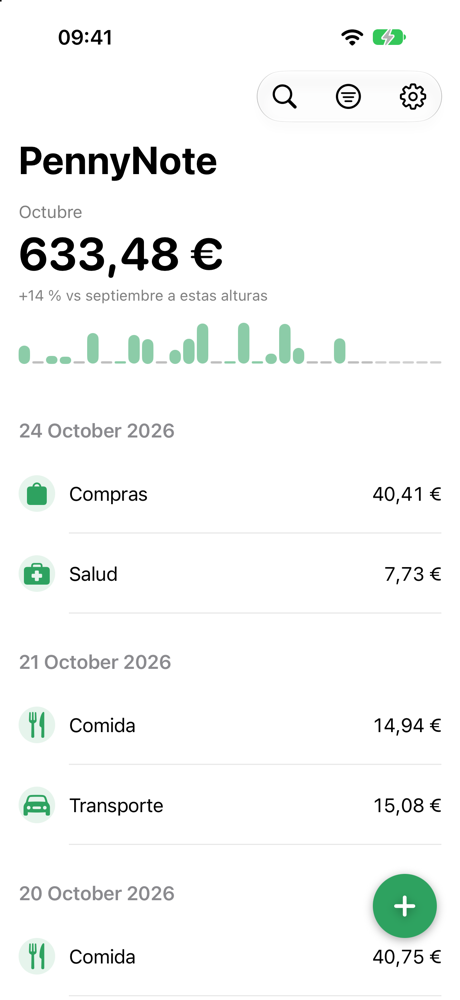
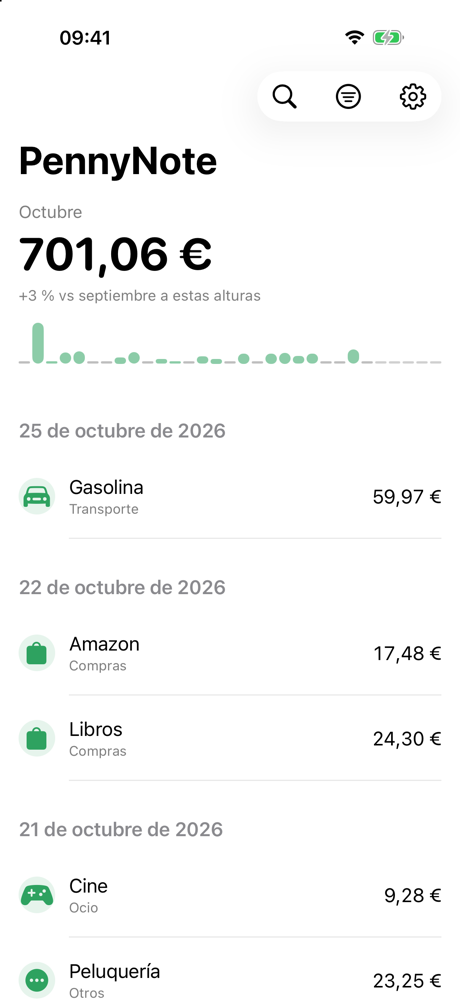
docs(readme): capturas nuevas desde el modo demo
Ocho capturas con los mismos datos de ejemplo: pantalla principal, añadir
gasto, estadísticas (dos), filtros, búsqueda, widget e inicio de sesión. Añade
el modo demo a la lista de funciones.

diff --git a/README.md b/README.md
@@ -3,9 +3,16 @@
 A fast expense tracker for iPhone. Sign in with email and password and your expenses are kept in your account, synced across devices and available offline.
 
 <p align="center">
-  <img src="docs/screenshots/main.png" width="250" alt="Main screen with the month's total, the comparison with the previous month and a daily spending chart">
-  <img src="docs/screenshots/statistics.png" width="250" alt="Statistics screen with daily spending and spending per category">
-  <img src="docs/screenshots/widget.jpg" width="250" alt="Medium Home Screen widget with the month's chart and top categories">
+  <img src="docs/screenshots/main.png" width="200" alt="Main screen with the month's total, the comparison with the previous month and a daily spending chart">
+  <img src="docs/screenshots/add.png" width="200" alt="Add expense sheet with title, amount, category, payment method and date">
+  <img src="docs/screenshots/statistics.png" width="200" alt="Statistics screen with the month's total, daily spending chart and spending per category">
+  <img src="docs/screenshots/statistics-more.png" width="200" alt="Statistics screen with spending per payment method and the last six months">
+</p>
+<p align="center">
+  <img src="docs/screenshots/filters.png" width="200" alt="Filter menu with categories and payment methods">
+  <img src="docs/screenshots/search.png" width="200" alt="Search results for expenses matching a title">
+  <img src="docs/screenshots/widget.jpg" width="200" alt="Medium Home Screen widget with the month's chart and top categories">
+  <img src="docs/screenshots/signin.png" width="200" alt="Sign-in screen with email and password and a Demo button">
 </p>
 
 ## Features
@@ -17,6 +24,7 @@ A fast expense tracker for iPhone. Sign in with email and password and your expe
 - Home Screen widgets (small and medium) with the month's chart and top categories, and Lock Screen widgets with the total.
 - Control Center button and Siri/Shortcuts action to add an expense.
 - Works offline: changes are saved on the device and synced to your account ([Supabase](https://supabase.com)) when there is a connection.
+- Demo mode: tap **Demo** on the sign-in screen to browse the app with sample data, without an account. It is read-only and nothing is saved.
 
 ## Requirements
 
